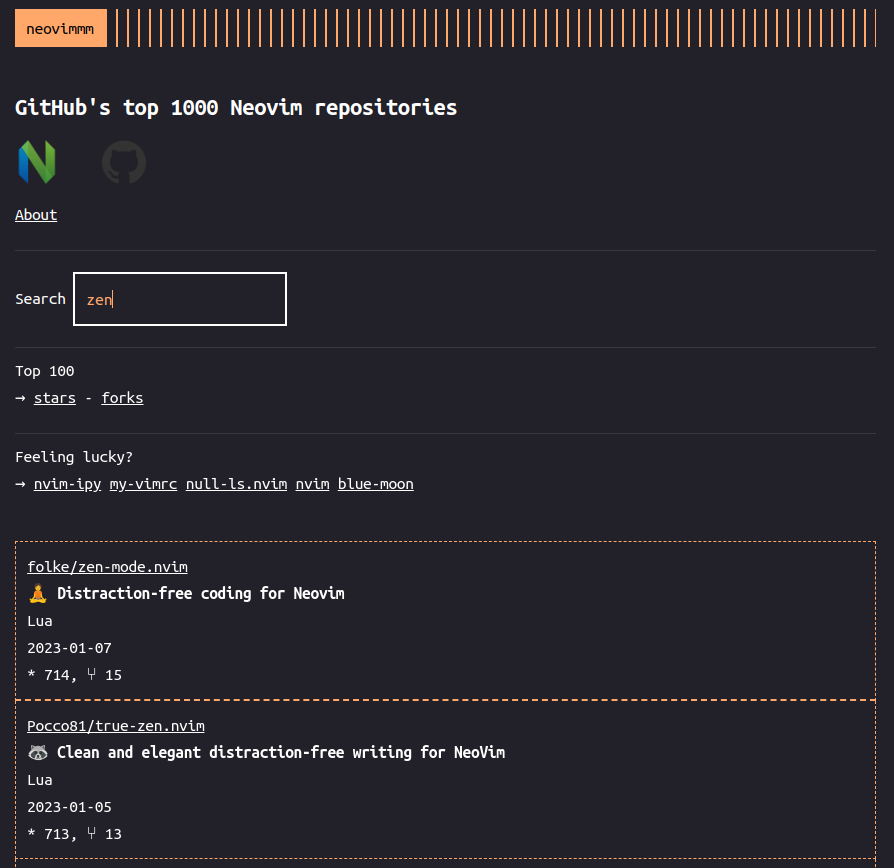
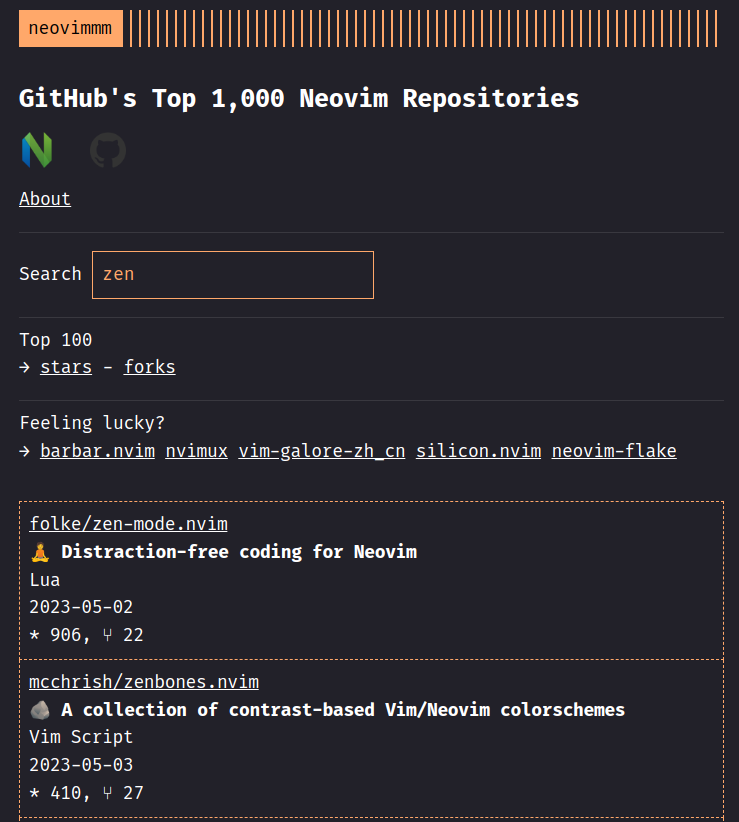
layout update

diff --git a/index.html b/index.html
@@ -1,128 +1,151 @@
 <!DOCTYPE html>
 <html lang="en">
-
-<head>
+  <head>
     <meta name="generator" content="Hugo 0.92.2" />
 
     <title>neovimmm</title>
 
     <script type="module" src="index.js"></script>
 
-    <meta http-equiv="content-type" content="text/html; charset=utf-8">
-    <meta name="viewport" content="width=device-width, initial-scale=1.0">
-    <meta name="description" content="GitHub&#39;s top 1000 Neovim repositories" />
+    <meta http-equiv="content-type" content="text/html; charset=utf-8" />
+    <meta name="viewport" content="width=device-width, initial-scale=1.0" />
+    <meta
+      name="description"
+      content="GitHub&#39;s Top 1,000 Neovim Repositories"
+    />
     <meta name="keywords" content="" />
     <meta name="robots" content="noodp" />
     <link rel="canonical" href="https://tomdeneire.github.io/neovimmm/" />
-    <link rel="stylesheet" href="styles.css">
-    <link rel="shortcut icon" href="img/theme-colors/orange.png">
-    <link rel="apple-touch-icon" href="img/theme-colors/orange.png">
+    <link rel="stylesheet" href="styles.css" />
+    <link rel="shortcut icon" href="img/theme-colors/orange.png" />
+    <link rel="apple-touch-icon" href="img/theme-colors/orange.png" />
     <meta name="twitter:card" content="summary" />
     <meta property="og:locale" content="en" />
     <meta property="og:type" content="website" />
-    <meta property="og:title" content="neovimmm">
-    <meta property="og:description" content="GitHub&#39;s top 1000 Neovim repositories" />
+    <meta property="og:title" content="neovimmm" />
+    <meta
+      property="og:description"
+      content="GitHub&#39;s Top 1,000 Neovim Repositories"
+    />
     <meta property="og:url" content="" />
     <meta property="og:site_name" content="neovimmm" />
-    <meta property="og:image" content="img/favicon/orange.png">
-    <meta property="og:image:width" content="1200">
-    <meta property="og:image:height" content="627">
-    <link href="/neovimmm/index.xml" rel="alternate" type="application/rss+xml" title="neovimmm" />
+    <meta property="og:image" content="img/favicon/orange.png" />
+    <meta property="og:image:width" content="1200" />
+    <meta property="og:image:height" content="627" />
+    <link
+      href="/neovimmm/index.xml"
+      rel="alternate"
+      type="application/rss+xml"
+      title="neovimmm"
+    />
+  </head>
 
-</head>
-
-<!-- Google tag (gtag.js) -->
-<script async src="https://www.googletagmanager.com/gtag/js?id=G-HLVN09QGL8"></script>
-<script>
+  <!-- Google tag (gtag.js) -->
+  <script
+    async
+    src="https://www.googletagmanager.com/gtag/js?id=G-HLVN09QGL8"
+  ></script>
+  <script>
     window.dataLayer = window.dataLayer || [];
-    function gtag() {dataLayer.push(arguments);}
-    gtag('js', new Date());
+    function gtag() {
+      dataLayer.push(arguments);
+    }
+    gtag("js", new Date());
 
-    gtag('config', 'G-HLVN09QGL8');
-</script>
+    gtag("config", "G-HLVN09QGL8");
+  </script>
 
-<body class="orange">
-
+  <body class="orange">
     <div class="container headings--one-size">
-
-        <header class="header">
-            <div class="header__inner">
-                <div class="header__logo">
-                    <a href="/">
-                        <div class="logo">
-                            neovimmm
-                        </div>
-                    </a>
-                </div>
-
-
-            </div>
-
-        </header>
-
-        <h1>GitHub's top 1000 Neovim repositories</h1>
-
-        <div>
-            <img src="neovim.png" style="float: left; margin-right: 5%; margin-bottom: 1em;" width="40px;">
-            <img src="github.png" style="float: left; margin-right: 5%; margin-bottom: 1em;" width="40px;">
+      <header class="header">
+        <div class="header__inner">
+          <div class="header__logo">
+            <a href="/">
+              <div class="logo">neovimmm</div>
+            </a>
+          </div>
         </div>
-        <div class="content">
-            <div class="posts">
+      </header>
 
-                <section><a href="https://github.com/TomDeneire/neovimmm#readme" target="_blank">About</a></section>
-                <p>
-                    <hr>
-                <p>
-                <div>
-                    <div>
-                        <section>Search <input type="text" id="search" /></section>
+      <h1>GitHub's Top 1,000 Neovim Repositories</h1>
 
-                    </div>
-                    <p>
-                        <hr>
-                    <div>
-                        <section>Top 100
-                            <section id="top">&#8594; <span id="stars" style="cursor: pointer;"><u>stars</u></span> -
-                                <span id="forks" style="cursor: pointer;"><u>forks</u></span>
-                            </section>
-                        </section>
-                    </div>
-                    <p>
-                        <hr>
-                    <div>
-                        <section>Feeling lucky?
-                            <section id="suggestions"></section>
-                        </section>
-                    </div>
-                </div>
-                <div>
-                    <table id="result">
-                    </table>
-                </div>
+      <div>
+        <img
+          src="neovim.png"
+          style="float: left; margin-right: 5%; margin-bottom: 1em"
+          width="40px;"
+        />
+        <img
+          src="github.png"
+          style="float: left; margin-right: 5%; margin-bottom: 1em"
+          width="40px;"
+        />
+      </div>
+      <div class="content">
+        <div class="posts">
+          <section>
+            <a
+              href="https://github.com/TomDeneire/neovimmm#readme"
+              target="_blank"
+              >About</a
+            >
+          </section>
+          <p></p>
+          <hr />
+          <p></p>
+          <div>
+            <div>
+              <section>Search <input type="text" id="search" /></section>
             </div>
-
+            <p></p>
+            <hr />
+            <div>
+              <section>
+                Top 100
+                <section id="top">
+                  &#8594;
+                  <span id="stars" style="cursor: pointer"><u>stars</u></span> -
+                  <span id="forks" style="cursor: pointer"><u>forks</u></span>
+                </section>
+              </section>
+            </div>
+            <p></p>
+            <hr />
+            <div>
+              <section>
+                Feeling lucky?
+                <section id="suggestions"></section>
+              </section>
+            </div>
+          </div>
+          <div>
+            <table id="result"></table>
+          </div>
         </div>
+      </div>
 
+      <footer class="footer">
+        <div class="footer__inner">
+          <div class="copyright">
+            <span
+              >© 2023
+              <a href="https://tomdeneire.github.io">Tom Deneire</a></span
+            >
+            <span>
+              :: Theme by
+              <a
+                href="https://github.com/panr/hugo-theme-terminal"
+                target="_blank"
+                >panr</a
+              ></span
+            >
 
-        <footer class="footer">
-            <div class="footer__inner">
+            <span> :: Update 2023-05-03</span>
+          </div>
+        </div>
+      </footer>
 
-                <div class="copyright">
-                    <span>© 2023 <a href="https://tomdeneire.github.io">Tom Deneire</a></span>
-                    <span>:: Powered by <a href="http://gohugo.io">Hugo</a></span>
-
-                    <span>:: <a href="https://github.com/panr/hugo-theme-terminal" target="_blank">Theme</a> made by <a
-                            href="https://github.com/panr" target="_blank">panr</a></span>
-
-                    <span>:: Update 2023-05-03</span>
-                </div>
-            </div>
-        </footer>
-
-        <script type="text/javascript" src="bundle.min.js"></script>
-
+      <script type="text/javascript" src="bundle.min.js"></script>
     </div>
-
-</body>
-
+  </body>
 </html>
